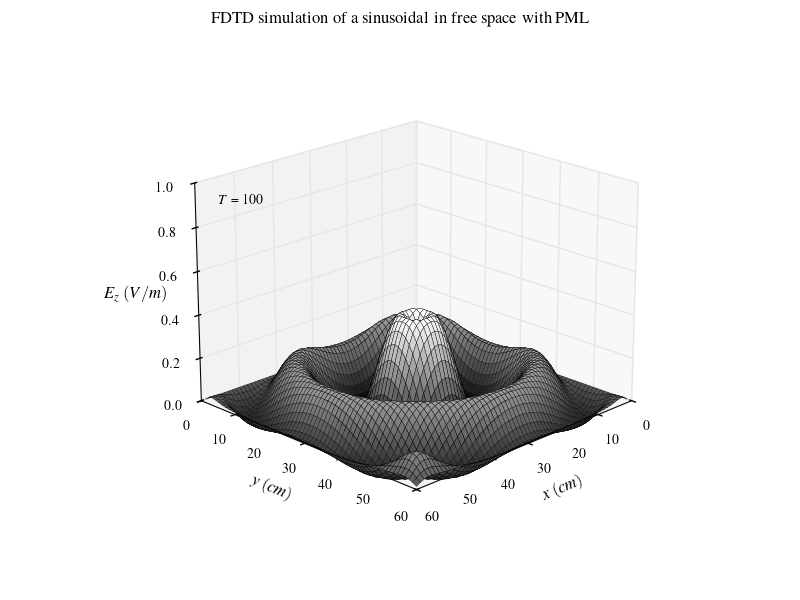
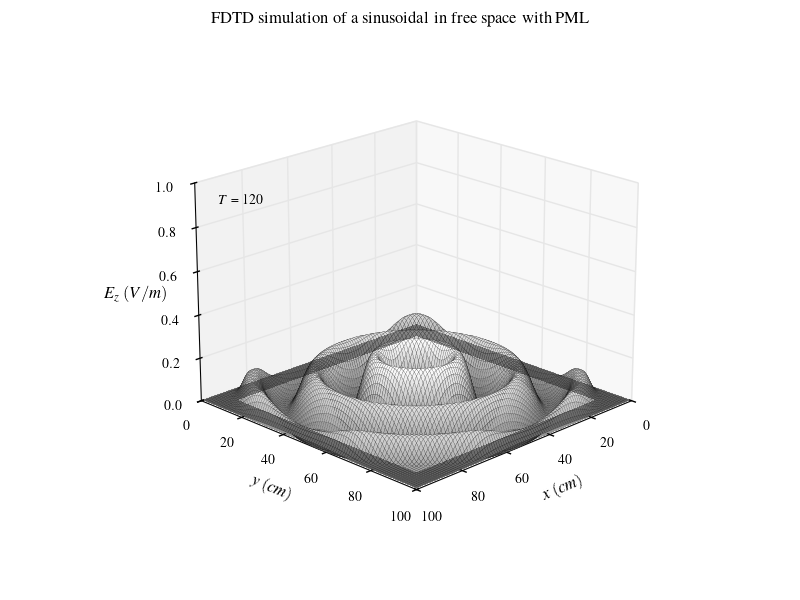
simulation of a sinusoidal in free space in the transverse magnetic mode with pml

diff --git a/fd2d/python/fd2d_3_2.py b/fd2d/python/fd2d_3_2.py
@@ -16,11 +16,13 @@ plt.style.use("classic")
 plt.style.use("../pyplot.mplstyle")
 
 
-def surfaceplot(ns: int, nx: int, ny: int, ez: np.ndarray) -> None:
+def surfaceplot(ns: int, nx: int, ny: int, npml: int, ez: np.ndarray) -> None:
     fig, ax = plt.subplots(subplot_kw={"projection":"3d"})
     fig.suptitle(r"FDTD simulation of a sinusoidal in free space with PML")
-    yv, xv = np.meshgrid(range(ny), range(nx))
-    ax.plot_surface(xv, yv, ez, rstride=1, cstride=1, cmap="gray", lw=0.25)
+    yv, xv = np.meshgrid(range(ny), range(nx)); levels = [0.50,1.50]
+    pmlmsk = ((xv < npml)|(xv >= nx-npml)|(yv < npml)|(yv >= ny-npml))
+    ax.plot_surface(xv, yv, ez, rstride=1, cstride=1, cmap="gray", lw=10/nx)
+    ax.contourf(xv, yv, pmlmsk, levels, offset=0, colors="k", alpha=0.40)
     ax.text2D(0.1, 0.7, rf"$T$ = {ns}", transform=ax.transAxes)
     ax.set(xlim=(0, nx), ylim=(0, ny), zlim=(0, 1))
     ax.set(xlabel=r"$x\;(cm)$", ylabel=r"$y\;(cm)$", zlabel=r"$E_z\;(V/m)$")
@@ -28,12 +30,14 @@ def surfaceplot(ns: int, nx: int, ny: int, ez: np.ndarray) -> None:
     plt.savefig("fd2d_surface_3_2.png", dpi=100)
 
 
-def contourplot(ns: int, nx: int, ny: int, ez: np.ndarray) -> None:
+def contourplot(ns: int, nx: int, ny: int, npml: int, ez: np.ndarray) -> None:
     fig, ax = plt.subplots(figsize=(4,4), gridspec_kw={"hspace":0.2})
     fig.suptitle(r"FDTD simulation of a sinusoidal in free space with PML")
-    yv, xv = np.meshgrid(range(ny), range(nx))
-    ax.contourf(xv, yv, ez, cmap="gray", alpha=0.75)
-    ax.contour(xv, yv, ez, colors="k", linewidths=0.25)
+    yv, xv = np.meshgrid(range(ny), range(nx)); ezmax = np.abs(ez).max()
+    levels = np.linspace(-ezmax, ezmax, int(2/0.04))
+    pmlmsk = ((xv < npml)|(xv >= nx-npml)|(yv < npml)|(yv >= ny-npml))
+    ax.contour(xv, yv, ez, levels, cmap="gray", alpha=1.0, linewidths=1.5)
+    ax.contourf(xv, yv, pmlmsk, levels=[0.50,1.50], colors="k", alpha=0.40)
     ax.set(xlim=(0, nx-1), ylim=(0, ny-1), aspect="equal")
     ax.set(xlabel=r"$x\;(cm)$", ylabel=r"$y\;(cm)$")
     plt.subplots_adjust(bottom=0.2, hspace=0.45)
@@ -41,16 +45,10 @@ def contourplot(ns: int, nx: int, ny: int, ez: np.ndarray) -> None:
 
 
 pmlayer = namedtuple('pmlayer', (
-    'fx1',
-    'fx2',
-    'fx3',
-    'fy1',
-    'fy2',
-    'fy3',
-    'gx2',
-    'gx3',
-    'gy2',
-    'gy3',
+    'fx1', 'fx2', 'fx3',
+    'fy1', 'fy2', 'fy3',
+    'gx2', 'gx3',
+    'gy2', 'gy3',
 ))
 
 
@@ -104,10 +102,10 @@ def pmlparam(nx: int, ny: int, npml: int, pml: pmlayer) -> None:
 
 def main():
 
-    nx: int = 60  # number of grid points
-    ny: int = 60  # number of grid points
+    nx: int = 100  # number of grid points
+    ny: int = 100  # number of grid points
 
-    ns: int = 100  # number of time steps
+    ns: int = 120  # number of time steps
 
     dz = np.zeros((nx, ny), dtype=np.float64)
     ez = np.zeros((nx, ny), dtype=np.float64)
@@ -143,8 +141,8 @@ def main():
         efield(nx, ny, naz, dz, ez)
         hfield(nx, ny, pml, ez, ihx, ihy, hx, hy)
 
-    surfaceplot(ns, nx, ny, ez)
-    contourplot(ns, nx, ny, ez)
+    surfaceplot(ns, nx, ny, npml, ez)
+    contourplot(ns, nx, ny, npml, ez)
 
 
 if __name__ == "__main__":
